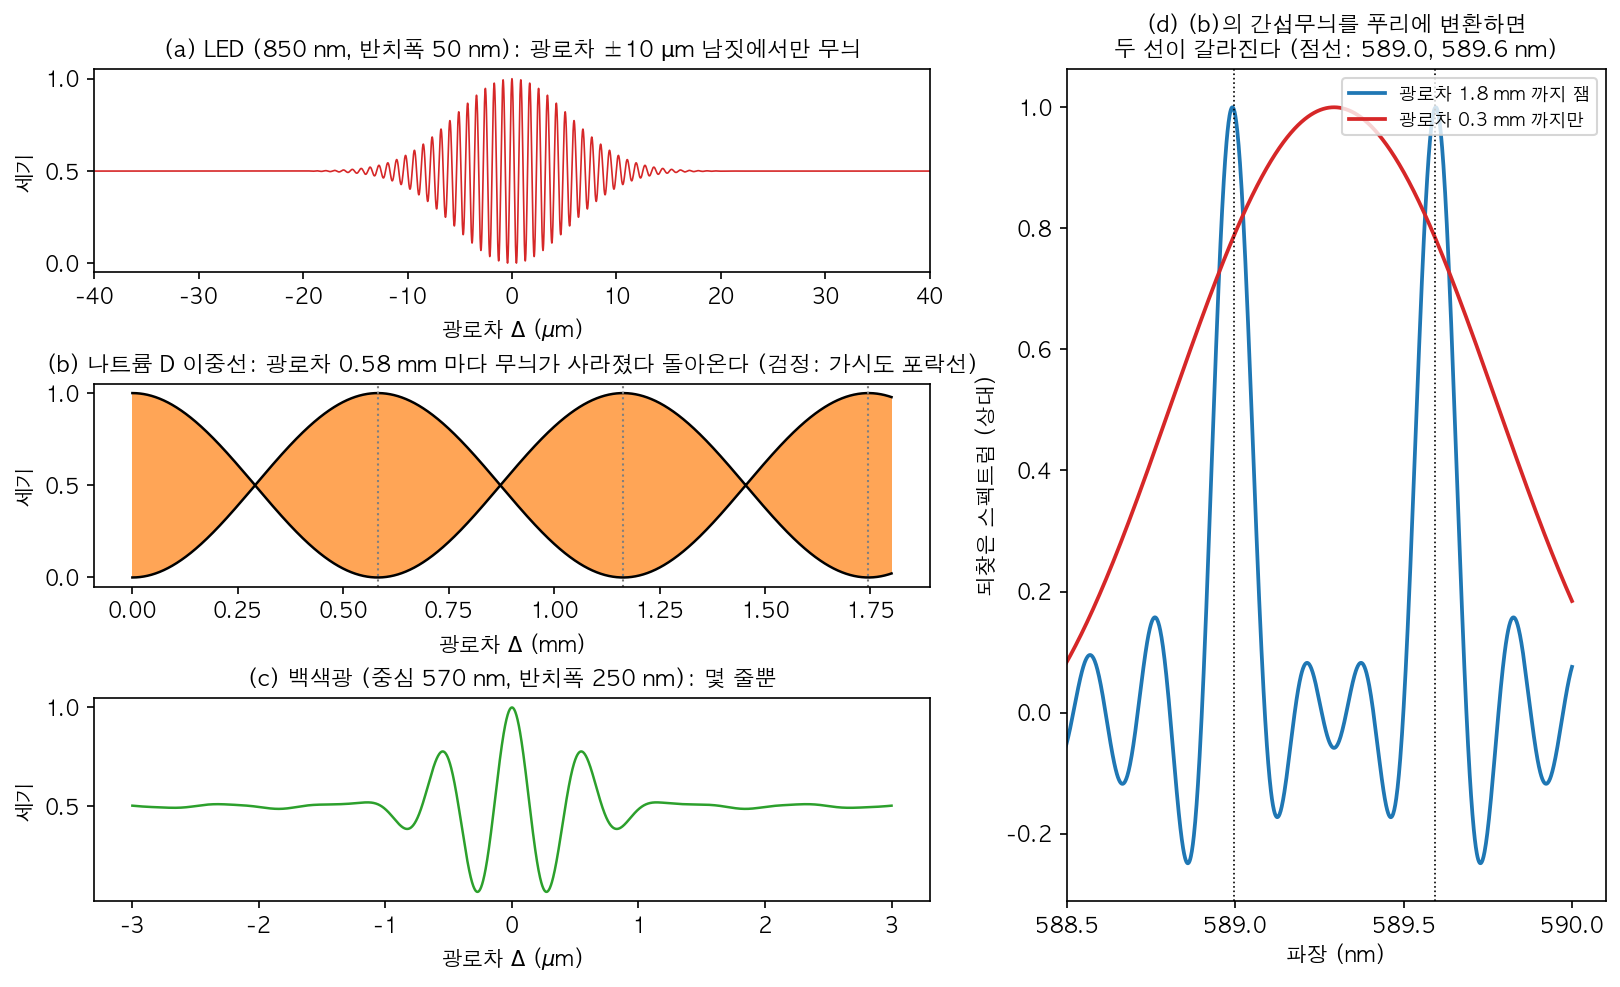
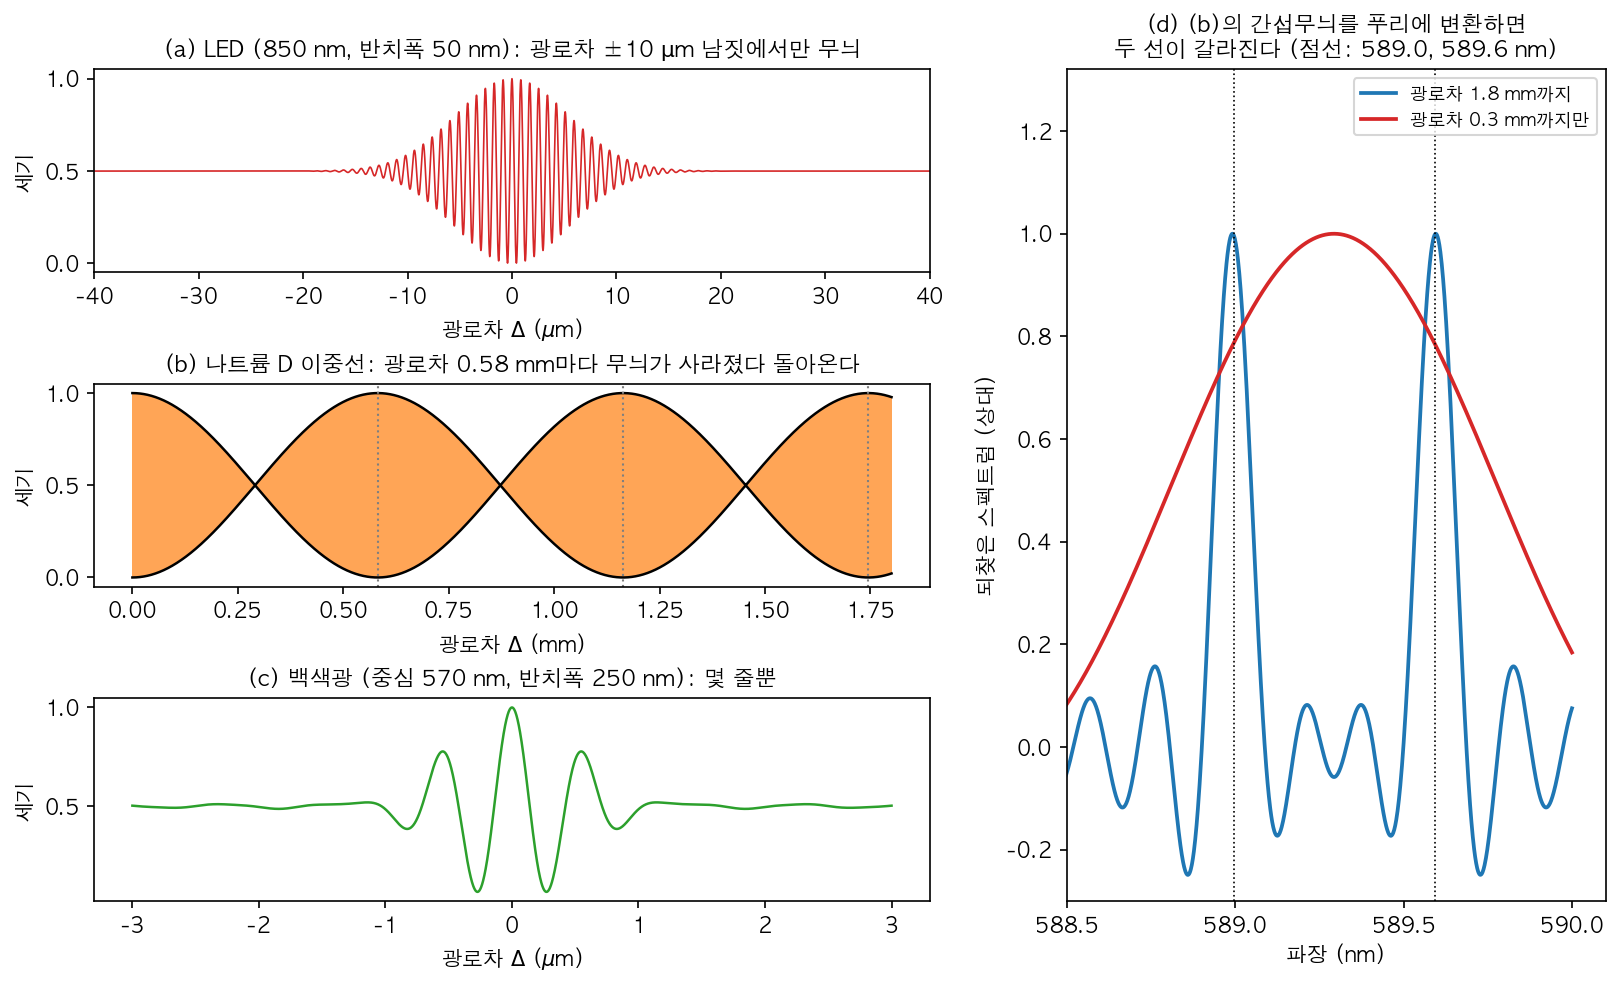
fix(post): wave-optics-coherence — tech-writing-style 재교정, 질문형 제목, 점확산함수 표기, fig3

diff --git a/_code/wave-optics-coherence/generate_figures.py b/_code/wave-optics-coherence/generate_figures.py
@@ -127,8 +127,8 @@ def figure3(L):
         b.axvline(k * beat / 1000, color=C_GREY, ls=":", lw=1)
     b.set_xlabel(t(L, r"광로차 $\Delta$ (mm)", r"path difference $\Delta$ (mm)"), **font(L))
     b.set_ylabel(t(L, "세기", "intensity"), **font(L))
-    b.set_title(t(L, f"(b) 나트륨 D 이중선: 광로차 {beat / 1000:.2f} mm 마다 무늬가 사라졌다 돌아온다 (검정: 가시도 포락선)",
-                  f"(b) Sodium D doublet: fringes vanish and return every {beat / 1000:.2f} mm of path difference (black: visibility envelope)"),
+    b.set_title(t(L, f"(b) 나트륨 D 이중선: 광로차 {beat / 1000:.2f} mm마다 무늬가 사라졌다 돌아온다",
+                  f"(b) Sodium D doublet: fringes vanish and return every {beat / 1000:.2f} mm of path difference"),
                 fontsize=10.5, **font(L))
     # (c) 백색광: 한 줄의 흰 무늬
     s0w, dsw = wavelength_band(0.57, 0.25)
@@ -144,8 +144,8 @@ def figure3(L):
     # (d) 푸리에 변환 분광: (b) 의 간섭무늬에서 이중선을 되찾는다
     d_ax = fig.add_subplot(gs[:, 1])
     sig_out = np.linspace(1 / 0.5900, 1 / 0.5884, 1601)
-    for Dmax, col, lab_ko, lab_en in [(1800.0, C_RAY, "광로차 1.8 mm 까지 잼", "scan to 1.8 mm"),
-                                       (300.0, C_RED, "광로차 0.3 mm 까지만", "scan to 0.3 mm only")]:
+    for Dmax, col, lab_ko, lab_en in [(1800.0, C_RAY, "광로차 1.8 mm까지", "scan to 1.8 mm"),
+                                       (300.0, C_RED, "광로차 0.3 mm까지만", "scan to 0.3 mm only")]:
         sel = DN <= Dmax
         Dsym = np.concatenate([-DN[sel][::-1], DN[sel][1:]])
         Isym = np.concatenate([IN[sel][::-1], IN[sel][1:]])
@@ -157,6 +157,7 @@ def figure3(L):
     d_ax.set_xticks([588.5, 589.0, 589.5, 590.0])
     d_ax.set_xlabel(t(L, "파장 (nm)", "wavelength (nm)"), **font(L))
     d_ax.set_ylabel(t(L, "되찾은 스펙트럼 (상대)", "recovered spectrum (relative)"), **font(L))
+    d_ax.set_ylim(-0.3, 1.32)
     legend(d_ax, L, loc="upper right")
     d_ax.set_title(t(L, "(d) (b)의 간섭무늬를 푸리에 변환하면\n두 선이 갈라진다 (점선: 589.0, 589.6 nm)",
                      "(d) Fourier transforming the interferogram of (b)\nseparates the two lines (dotted: 589.0, 589.6 nm)"),

diff --git a/_posts/2026-11-29-wave-optics-coherence-en.md b/_posts/2026-11-29-wave-optics-coherence-en.md
@@ -1,7 +1,7 @@
 ---
 layout: post
 date: 2026-11-29 20:00:00 +0900
-title: "Wave Optics Foundations 2 — When Does Light Interfere? Temporal and Spatial Coherence"
+title: "Wave Optics Foundations 2 — Why Does Laser Light Interfere When Flashlight Light Does Not?"
 lang: en
 lang-exclusive: ["en"]
 permalink: /posts/wave-optics-coherence/
@@ -36,7 +36,7 @@ _Figure 2. Two random light waves that differ only in spectral width. (a), (d) F
 
 Figure 2 makes this visible. The top row is light with a narrow spectrum, the bottom row light with a spectrum ten times broader. The narrow-band light has a slowly undulating envelope and keeps its sinusoidal shape for tens of periods. The broad-band light changes amplitude and phase every few periods. The widths of the two degrees of coherence differ by the same factor of ten.
 
-## 2. Spectrum and coherence are a Fourier pair
+## 2. Why does a broader spectrum shorten the coherence?
 
 The degree of coherence in Figure 2 was obtained in two ways: by measuring the autocorrelation of the generated random wave (lines) and by Fourier transforming the spectrum (circles). The two coincide, and not by accident. The autocorrelation of light and its power spectrum are Fourier transforms of each other; this is the Wiener–Khinchin theorem [1, 3]. Since the coherence time and the spectral width are the widths of a Fourier pair, they are inversely proportional [3]:
 
@@ -60,30 +60,30 @@ The coherence length of sunlight is 0.8 µm, comparable to its wavelength. That 
 
 Increasing the coherence time is simple: trim the spectrum with a narrow-band filter. The price is intensity. Every frequency thrown away takes its light with it [3].
 
-## 3. Measuring coherence with a Michelson interferometer
+## 3. How does an interferometer measure coherence?
 
 The Michelson interferometer of Part 1 splits light in two, delays one half, and recombines them. It overlaps light with a delayed copy of itself, which is exactly the definition of the degree of coherence. So when the mirror is moved and the fringe visibility is measured, that visibility is $\lvert g\rvert$ at the corresponding path difference [3]. In Part 1 the visibility was set by the intensity ratio of the two beams; for partially coherent light it is multiplied by $\lvert g\rvert$ [3]:
 
 $$ V = \frac{2\sqrt{I_1 I_2}}{I_1 + I_2}\,\lvert g\rvert $$
 
 <img src="/assets/img/posts/wave-optics-coherence/en/fig3-michelson-interferograms.png" alt="Michelson interferograms of an LED, the sodium doublet and white light, and the spectrum recovered by Fourier transform" width="780">
-_Figure 3. Computed output of a Michelson interferometer versus path difference. (a) LED: fringes only within about ±10 µm of path difference. (b) Sodium D doublet: the fringes are so dense they appear as a filled band, and its edge (black) — the visibility — drops to zero and returns every 0.58 mm. (c) White light: only a few central fringes. (d) Spectrum recovered by Fourier transforming the interferogram of (b). Scanning to 1.8 mm separates the 589.0 nm and 589.6 nm lines; scanning only to 0.3 mm merges them into one._
+_Figure 3. Computed output of a Michelson interferometer versus path difference. (a) LED: fringes only within about ±10 µm of path difference. (b) Sodium D doublet: the fringes are so dense they appear as a filled band, and its edge (black), the visibility, drops to zero and returns every 0.58 mm. (c) White light: only a few central fringes. (d) Spectrum recovered by Fourier transforming the interferogram of (b). Scanning to 1.8 mm separates the 589.0 nm and 589.6 nm lines; scanning only to 0.3 mm merges them into one._
 
 In Figure 3(a) the LED fringes exist only within about ±10 µm of path difference. The white light of (c) shows only two or three central fringes. The distance the mirror moves before the fringes vanish is the coherence length.
 
 The sodium lamp of (b) is more interesting. The yellow light of sodium consists of two lines, at 589.0 nm and 589.6 nm. Each is nearly a pure sine wave, but their wavelengths differ slightly, so as the path difference grows their fringe patterns slide apart. At a path difference of $\lambda^2/(2\Delta\lambda) = 0.29$ mm the bright fringes of one line fall on the dark fringes of the other and the pattern disappears; at 0.58 mm they line up again and the fringes return. It is the same as the beating of two musical notes with slightly different pitch. Since the mirror moves half the path difference, the fringes vanish and reappear every 0.29 mm of mirror travel. This is how Michelson read the structure of spectral lines from fringe visibility [2].
 
-### From interferogram to spectrum
+### How does an interferogram give a spectrum?
 
 Read the Wiener–Khinchin theorem backwards and the spectrum can be obtained by Fourier transforming the interferogram recorded while moving the mirror [3]. This is Fourier transform spectroscopy. Figure 3(d) transforms the sodium interferogram of (b). Recording out to 1.8 mm of path difference separates the two lines cleanly; recording only to 0.3 mm merges them. The smallest resolvable wavenumber difference is roughly the inverse of the scanned path difference. When 1/(0.3 mm) = 33 cm⁻¹ exceeds the separation of the two lines (17 cm⁻¹), they are not resolved. Scanning further increases the resolution.
 
 The Fourier transform infrared spectrometer (FTIR), widely used in infrared spectroscopy, works on this principle. Bell summarizes the advantages of interferometric spectroscopy in two points [4]. A grating spectrometer measures only the narrow band of wavelengths passing its exit slit at any moment, whereas an interferometer measures all wavelengths at every moment. This is the Fellgett, or multiplex, advantage. An interferometer can also accept light through a large circular aperture rather than a narrow slit, collecting more light at the same resolution. This is the Jacquinot, or throughput (étendue), advantage [4]. The étendue of [Geometrical Optics Foundations 3](/en/posts/geometric-optics-stops-pupils-etendue/) appears again here.
 
-## 4. Short coherence is useful
+## 4. Is short coherence a loss for measurement?
 
 Short coherence looks like a defect, but in measurement it turns out to be useful.
 
-### Film thickness and coherence
+### Why does a thick film show no coloured bands?
 
 The oil and soap films of Part 1 showed colours only when thin. A thick window pane reflects light from both its faces, yet shows no coloured bands. Once the path difference $2nt$ between the two reflections exceeds the coherence length, the two beams no longer interfere and their intensities simply add. The coherence length of sunlight as seen by the eye is under 1 µm, so films thicker than a few micrometres lose their fringes.
 
@@ -92,20 +92,20 @@ _Figure 4. (a) Reflectance of a water film in air versus thickness, viewed throu
 
 Look at the same film with a spectrometer, however, and the fringes return (Figure 4). Each spectrometer pixel receives only a narrow band of wavelengths, so the light it sees has a long coherence length. A 2 nm band has a coherence length of about 0.15 mm, enough for the two reflections from a film tens of micrometres thick to interfere. The fringes now appear along the wavelength axis rather than the thickness axis (Figure 4(b)). The thicker the film, the denser the fringes in wavelength, and their spacing gives the thickness. This is how the spectral reflectometers that measure film thickness in semiconductor processing work, as do [ellipsometers](/en/posts/ellipsometry-thin-film-multilayer-reflectance/). Conversely, a very thick layer such as a substrate washes out the fringes even within one spectrometer pixel, so multilayer calculations add the two reflections from such a layer by intensity, not by amplitude [5].
 
-### White-light interferometry and OCT
+### How does short coherence measure depth?
 
-The white-light fringes of Figure 3(c) exist only near zero path difference. Turned around, this locates "zero path difference" very sharply. A white-light interferometer uses the sample surface as one arm of a Michelson and moves the reference mirror; for each pixel it finds the mirror position at which the fringes are strongest and takes that as the height of the pixel. A laser interferometer repeats its fringes every half wavelength and cannot tell apart steps that differ by more than half a wavelength, but white light has only one fringe packet and no such ambiguity.
+The white-light fringes of Figure 3(c) exist only near zero path difference. Turned around, this locates "zero path difference" very sharply. A white-light interferometer uses the specimen surface as one arm of a Michelson and moves the reference mirror; for each pixel it finds the mirror position at which the fringes are strongest and takes that as the height of the pixel. A laser interferometer repeats its fringes every half wavelength and cannot tell apart steps that differ by more than half a wavelength, but white light has only one fringe packet and no such ambiguity.
 
-Applying the same principle inside tissue gives optical coherence tomography (OCT) [3]. As the reference mirror moves, the reference light interferes with light returning from boundaries inside the sample, producing a fringe packet about one coherence length wide for each boundary (Figure 5) [3]. The position of the packet gives the depth of the boundary, and its size the strength of the reflection. Since the depth resolution is set by the coherence length, a broader spectrum resolves depth more finely. For a Gaussian spectrum the full width at half maximum of the fringe packet is
+Applying the same principle inside tissue gives optical coherence tomography (OCT) [3]. As the reference mirror moves, the reference light interferes with light returning from boundaries inside the specimen, producing a fringe packet about one coherence length wide for each boundary (Figure 5) [3]. The position of the packet gives the depth of the boundary, and its size the strength of the reflection. Since the depth resolution is set by the coherence length, a broader spectrum resolves depth more finely. For a Gaussian spectrum the full width at half maximum of the fringe packet is
 
 $$ \Delta z = \frac{2\ln 2}{\pi}\,\frac{\lambda_0^2}{\Delta\lambda} $$
 
 For a source centred at 840 nm with a 50 nm FWHM, this is 6.2 µm, which is why two boundaries 8 µm apart are resolved in Figure 5. OCT is widely used in clinical medicine, and frequency-domain schemes, which sweep the wavelength of the source or measure the spectrum with a spectrometer instead of moving the reference mirror, offer better sensitivity and speed [3]. It is the same idea as the Fourier transform spectroscopy of Section 3.
 
 <img src="/assets/img/posts/wave-optics-coherence/en/fig5-oct-ascan.png" alt="OCT interference signal and envelope" width="780">
-_Figure 5. Computed time-domain OCT (840 nm, 50 nm FWHM) of a sample with boundaries at depths of 100, 130, 138 and 200 µm (dotted). (a) Interference signal as the reference mirror moves. (b) Its envelope. Each boundary gives a peak 6.2 µm wide, and the two boundaries 8 µm apart are resolved._
+_Figure 5. Computed time-domain OCT (840 nm, 50 nm FWHM) of a specimen with boundaries at depths of 100, 130, 138 and 200 µm (dotted). (a) Interference signal as the reference mirror moves. (b) Its envelope. Each boundary gives a peak 6.2 µm wide, and the two boundaries 8 µm apart are resolved._
 
-## 5. Spatial coherence: the size of the source
+## 5. How does the size of the source change coherence?
 
 So far we have asked how orderly the phase stays in time at one point. The same question can be asked in space: at the same instant, how closely do the fields at two laterally separated points move together? Young's experiment measures exactly this. For the light from two holes to interfere, the light at the two holes must be coherent with each other. This is spatial coherence [1, 3].
 
@@ -120,9 +120,9 @@ $$ \lvert g\rvert = \left\lvert \frac{2J_1(x)}{x} \right\rvert, \qquad x = \frac
 
 and it first reaches zero at a separation $d = 1.22\,\lambda/\theta_s$ [1, 3], where $\theta_s$ is the angular diameter of the source and $J_1$ the first-order Bessel function. For sunlight at 550 nm this separation is 73 µm. To do Young's experiment with bare sunlight, the two holes must be within tens of micrometres of each other [3]. Light coming directly from an extended surface, such as just in front of a hot filament, has a coherence area of the order of the wavelength squared and is effectively incoherent [3].
 
-The shape of this formula will return in the next part. The amplitude of the diffraction pattern of a circular aperture — the Airy pattern — is $2J_1(x)/x$. This is no coincidence. As van Cittert showed in 1934 and Zernike in 1938 [2], the spatial degree of coherence produced far away by a source made of independent points is the Fourier transform of the source's intensity distribution. Mathematically it is the same as the diffraction amplitude of coherent light through an aperture of the same shape. This is the van Cittert–Zernike theorem. Even an incoherent source gains coherence as its light spreads out, which is why light from very distant stars is coherent over a wide region on the ground [3].
+The shape of this formula will return in the next part. The amplitude of the diffraction pattern of a circular aperture, the Airy pattern, is $2J_1(x)/x$. This is no coincidence. As van Cittert showed in 1934 and Zernike in 1938 [2], the spatial degree of coherence produced far away by a source made of independent points is the Fourier transform of the source's intensity distribution. Mathematically it is the same as the diffraction amplitude of coherent light through an aperture of the same shape. This is the van Cittert–Zernike theorem. Even an incoherent source gains coherence as its light spreads out, which is why light from very distant stars is coherent over a wide region on the ground [3].
 
-### Measuring the size of a star
+### How does coherence measure the size of a star?
 
 Turned around, this relation measures the size of a source. In 1890, following a suggestion by Fizeau, Michelson proposed a stellar interferometer: two mirrors spread apart in front of a telescope, with their separation varied until the fringes vanish [1]. At the separation $h$ where the fringes first vanish, the angular diameter of the star is $\theta_s = 1.22\lambda/h$. In December 1920, with the instrument mounted on the 2.5 m telescope at Mount Wilson, the fringes of Betelgeuse vanished at a mirror separation of 121 inches (about 3.1 m). With a wavelength of 570 nm this gives an angular diameter of 0.047 arcseconds, and since the distance was known, a diameter about 280 times that of the Sun [1]. The telescope alone could not resolve this angle; measuring coherence did.
 
@@ -131,7 +131,7 @@ _Figure 7. ALMA's 12 m antennas on the Chajnantor plateau in Chile (about 5000 m
 
 Radio astronomy developed this principle into an imaging technique [1]. A radio interferometer spreads many antennas over a wide area (Figure 7) and measures the coherence of the signals received by each pair. By the van Cittert–Zernike theorem, each such value is one point of the Fourier transform of the sky's brightness distribution. The more varied the separations and orientations of the antenna pairs, the more of the Fourier plane is filled, and inverting the transform gives an image.
 
-## 6. Speckle: noise made by coherence
+## 6. Why does speckle appear, and how is it reduced?
 
 Back to Figure 1. The wall is rough on the scale of a wavelength. When laser light scatters from it, light from many small patches of the wall reaches each point of the eye along different optical paths. Because the laser's coherence is long, all of this light interferes. The paths are random, so the phases are random: in the phasor picture of Part 1, many arrows of similar length pointing in random directions, joined head to tail. In some places the sum is long; in others it is nearly zero. This produces the bright and dark grains called speckle.
 
@@ -151,7 +151,7 @@ That is why instruments that image with lasers often reduce coherence deliberate
 - An extended source reduces spatial coherence. The degree of coherence is the Fourier transform of the source's brightness distribution (van Cittert–Zernike), and for a disc source it first reaches zero at $1.22\lambda/\theta_s$. This measures the sizes of stars and builds images in radio interferometers.
 - Coherent light scattered by a rough surface forms speckle with contrast 1. Averaging $N$ independent speckle patterns reduces the contrast to $1/\sqrt{N}$.
 
-Section 5 showed that the spatial degree of coherence has the same shape as the diffraction pattern of a circular aperture. Why does light passing through an aperture draw such a pattern? Why a lens images a star as a small disc rather than a point, and why the diffraction images of Geometrical Optics Foundations 4 and the degree of coherence of this post come from the same mathematics, is the subject of the next part: diffraction.
+Section 5 showed that the spatial degree of coherence has the same shape as the diffraction pattern of a circular aperture. Why does light passing through an aperture draw such a pattern? Why a lens images a star as a small disc rather than a point, and why the point spread function (PSF) of Geometrical Optics Foundations 4 and the degree of coherence of this post come from the same mathematics, is the subject of the next part: diffraction.
 
 ## References
 
